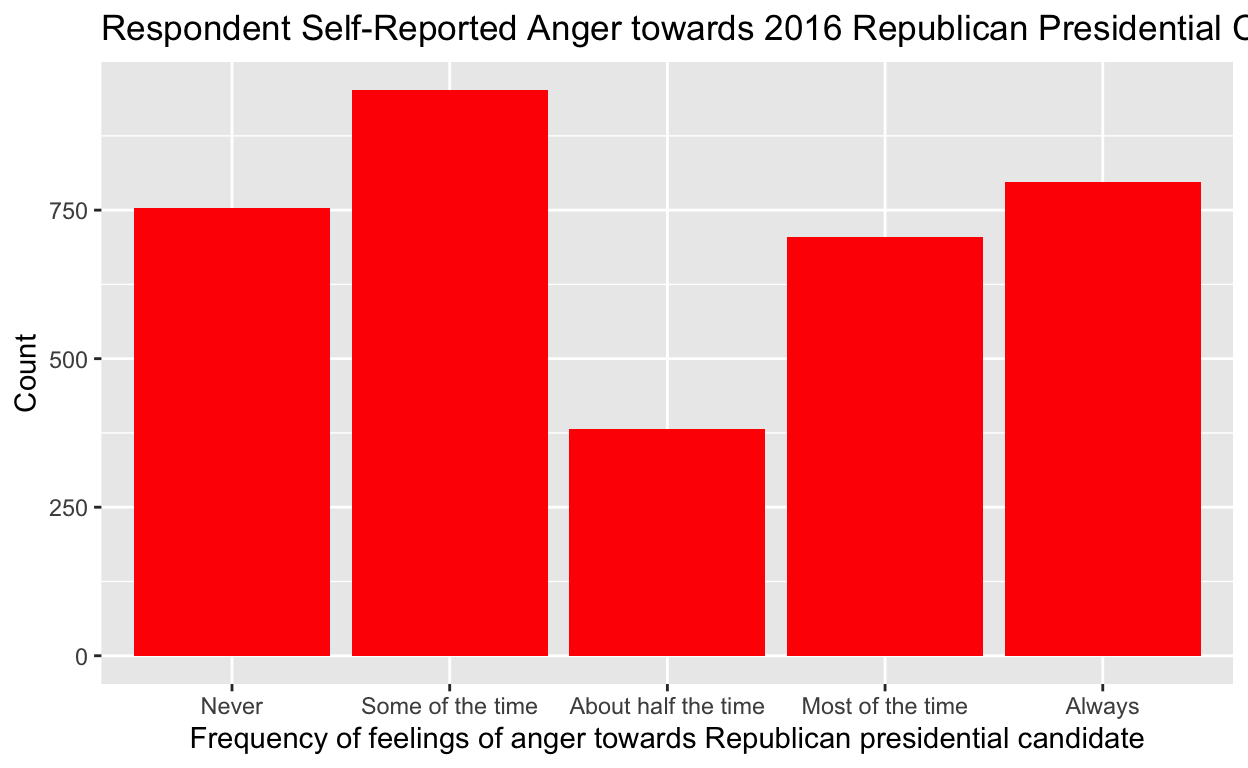
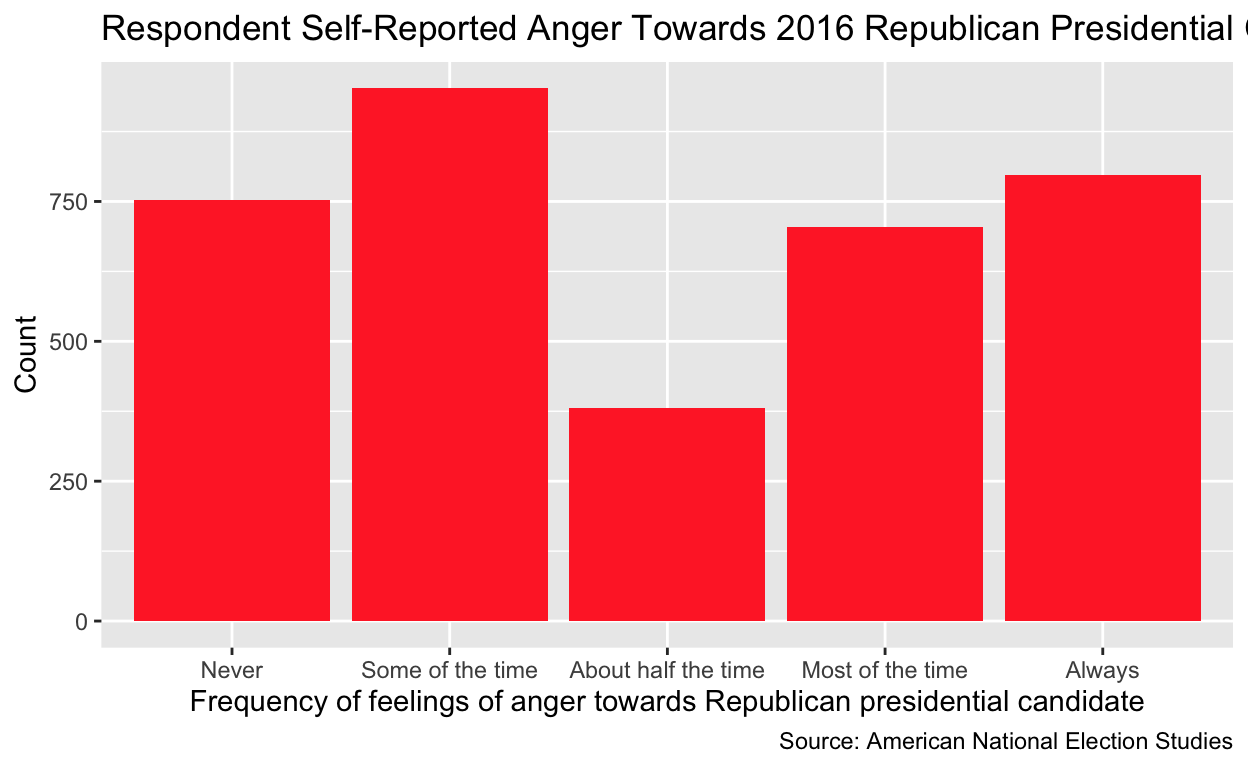
final edits

diff --git a/index.html b/index.html
@@ -1524,13 +1524,16 @@ code span.wa { color: #5e5e5e; font-style: italic; } /* Warning */
 <h2 id="loading-data-data-visualization">Loading data + data visualization</h2>
 <div class="layout-chunk" data-layout="l-body">
 <div class="sourceCode">
-<pre class="sourceCode r"><code class="sourceCode r"><span><span class='kw'><a href='https://rdrr.io/r/base/library.html'>library</a></span><span class='op'>(</span><span class='va'><a href='https://tidyverse.tidyverse.org'>tidyverse</a></span><span class='op'>)</span></span>
+<pre class="sourceCode r"><code class="sourceCode r"><span><span class='co'># Load data</span></span>
+<span><span class='kw'><a href='https://rdrr.io/r/base/library.html'>library</a></span><span class='op'>(</span><span class='va'><a href='https://tidyverse.tidyverse.org'>tidyverse</a></span><span class='op'>)</span></span>
 <span><span class='kw'><a href='https://rdrr.io/r/base/library.html'>library</a></span><span class='op'>(</span><span class='va'><a href='https://readr.tidyverse.org'>readr</a></span><span class='op'>)</span></span>
 <span><span class='va'>anes_2016</span> <span class='op'>&lt;-</span> <span class='fu'><a href='https://readr.tidyverse.org/reference/read_delim.html'>read_csv</a></span><span class='op'>(</span><span class='st'>"~/Downloads/anes-2016.csv"</span><span class='op'>)</span></span>
 <span></span>
+<span><span class='co'># Select relevant variables</span></span>
 <span><span class='va'>anes_subset</span> <span class='op'>&lt;-</span> <span class='va'>anes_2016</span> <span class='op'>|&gt;</span></span>
 <span>  <span class='fu'><a href='https://dplyr.tidyverse.org/reference/select.html'>select</a></span><span class='op'>(</span><span class='va'>V161116</span>, <span class='va'>V161121</span>, <span class='va'>V161495</span><span class='op'>)</span></span>
 <span></span>
+<span><span class='co'># Rename variables </span></span>
 <span><span class='va'>anes_subset</span> <span class='op'>&lt;-</span> <span class='va'>anes_subset</span> <span class='op'>|&gt;</span></span>
 <span>  <span class='fu'><a href='https://dplyr.tidyverse.org/reference/rename.html'>rename</a></span><span class='op'>(</span>Dem_Anger <span class='op'>=</span> <span class='va'>V161116</span>,</span>
 <span>         Rep_Anger <span class='op'>=</span> <span class='va'>V161121</span>,</span>
@@ -1548,29 +1551,34 @@ code span.wa { color: #5e5e5e; font-style: italic; } /* Warning */
 <span>                                     <span class='va'>Rep_Anger</span> <span class='op'>==</span> <span class='fl'>4</span> <span class='op'>~</span> <span class='st'>"Most of the time"</span>,</span>
 <span>                                     <span class='va'>Rep_Anger</span> <span class='op'>==</span> <span class='fl'>5</span> <span class='op'>~</span> <span class='st'>"Always"</span><span class='op'>)</span> <span class='op'>)</span></span>
 <span></span>
+<span><span class='co'># Turn variables into factors </span></span>
 <span><span class='va'>anes_subset</span> <span class='op'>&lt;-</span> <span class='va'>anes_subset</span> <span class='op'>|&gt;</span></span>
 <span>  <span class='fu'>dplyr</span><span class='fu'>::</span><span class='fu'><a href='https://dplyr.tidyverse.org/reference/mutate.html'>mutate</a></span><span class='op'>(</span>Dem_Anger_Value <span class='op'>=</span> <span class='fu'><a href='https://rdrr.io/r/base/factor.html'>factor</a></span><span class='op'>(</span><span class='va'>Dem_Anger_Value</span>, </span>
 <span>                                    levels <span class='op'>=</span> <span class='fu'><a href='https://rdrr.io/r/base/c.html'>c</a></span><span class='op'>(</span><span class='st'>"Never"</span>, <span class='st'>"Some of the time"</span>, <span class='st'>"About half the time"</span>,</span>
 <span>                                               <span class='st'>"Most of the time"</span>, <span class='st'>"Always"</span><span class='op'>)</span><span class='op'>)</span><span class='op'>)</span> <span class='op'>|&gt;</span></span>
 <span>   <span class='fu'>dplyr</span><span class='fu'>::</span><span class='fu'><a href='https://dplyr.tidyverse.org/reference/mutate.html'>mutate</a></span><span class='op'>(</span>Rep_Anger_Value <span class='op'>=</span> <span class='fu'><a href='https://rdrr.io/r/base/factor.html'>factor</a></span><span class='op'>(</span><span class='va'>Rep_Anger_Value</span>, </span>
 <span>                                    levels <span class='op'>=</span> <span class='fu'><a href='https://rdrr.io/r/base/c.html'>c</a></span><span class='op'>(</span><span class='st'>"Never"</span>, <span class='st'>"Some of the time"</span>, <span class='st'>"About half the time"</span>,</span>
-<span>                                               <span class='st'>"Most of the time"</span>, <span class='st'>"Always"</span><span class='op'>)</span><span class='op'>)</span><span class='op'>)</span> </span>
+<span>                                              <span class='st'>"Most of the time"</span>, <span class='st'>"Always"</span><span class='op'>)</span><span class='op'>)</span><span class='op'>)</span> </span>
+<span><span class='co'># Barplot: anger towards Democrats </span></span>
 <span><span class='va'>dem_anger_plot</span> <span class='op'>&lt;-</span> <span class='va'>anes_subset</span> <span class='op'>|&gt;</span></span>
 <span>  <span class='fu'><a href='https://tidyr.tidyverse.org/reference/drop_na.html'>drop_na</a></span><span class='op'>(</span><span class='op'>)</span> <span class='op'>|&gt;</span></span>
-<span>  <span class='fu'><a href='https://ggplot2.tidyverse.org/reference/ggplot.html'>ggplot</a></span><span class='op'>(</span>mapping <span class='op'>=</span> <span class='fu'><a href='https://ggplot2.tidyverse.org/reference/aes.html'>aes</a></span><span class='op'>(</span>x <span class='op'>=</span> <span class='va'>Dem_Anger_Value</span><span class='op'>)</span><span class='op'>)</span> <span class='op'>+</span> <span class='fu'><a href='https://ggplot2.tidyverse.org/reference/geom_bar.html'>geom_bar</a></span><span class='op'>(</span>stat <span class='op'>=</span> <span class='st'>"count"</span>, fill <span class='op'>=</span> <span class='st'>"blue"</span><span class='op'>)</span> <span class='op'>+</span> </span>
-<span>  <span class='fu'><a href='https://ggplot2.tidyverse.org/reference/labs.html'>labs</a></span><span class='op'>(</span>title <span class='op'>=</span> <span class='st'>"Respondent Self-Reported Anger towards 2016 Democratic Presidential Candidate"</span>,</span>
+<span>  <span class='fu'><a href='https://ggplot2.tidyverse.org/reference/ggplot.html'>ggplot</a></span><span class='op'>(</span>mapping <span class='op'>=</span> <span class='fu'><a href='https://ggplot2.tidyverse.org/reference/aes.html'>aes</a></span><span class='op'>(</span>x <span class='op'>=</span> <span class='va'>Dem_Anger_Value</span><span class='op'>)</span><span class='op'>)</span> <span class='op'>+</span> <span class='fu'><a href='https://ggplot2.tidyverse.org/reference/geom_bar.html'>geom_bar</a></span><span class='op'>(</span>stat <span class='op'>=</span> <span class='st'>"count"</span>, fill <span class='op'>=</span> <span class='st'>"dodgerblue3"</span><span class='op'>)</span> <span class='op'>+</span> </span>
+<span>  <span class='fu'><a href='https://ggplot2.tidyverse.org/reference/labs.html'>labs</a></span><span class='op'>(</span>title <span class='op'>=</span> <span class='st'>"Respondent Self-Reported Anger Towards 2016 Democratic Presidential Candidate"</span>,</span>
 <span>       x <span class='op'>=</span> <span class='st'>"Frequency of feelings of anger towards Democratic presidential candidate"</span>,</span>
-<span>       y <span class='op'>=</span> <span class='st'>"Count"</span><span class='op'>)</span> </span>
+<span>       y <span class='op'>=</span> <span class='st'>"Count"</span>,</span>
+<span>       caption <span class='op'>=</span> <span class='st'>"Source: American National Election Studies"</span><span class='op'>)</span> </span>
 <span><span class='va'>dem_anger_plot</span></span></code></pre>
 </div>
 <img src="index_files/figure-html5/unnamed-chunk-1-1.png" width="624" />
 <div class="sourceCode">
-<pre class="sourceCode r"><code class="sourceCode r"><span><span class='va'>rep_anger_plot</span> <span class='op'>&lt;-</span> <span class='va'>anes_subset</span> <span class='op'>|&gt;</span></span>
+<pre class="sourceCode r"><code class="sourceCode r"><span><span class='co'># Barplot: anger towards Republicans  </span></span>
+<span><span class='va'>rep_anger_plot</span> <span class='op'>&lt;-</span> <span class='va'>anes_subset</span> <span class='op'>|&gt;</span></span>
 <span>  <span class='fu'><a href='https://tidyr.tidyverse.org/reference/drop_na.html'>drop_na</a></span><span class='op'>(</span><span class='op'>)</span> <span class='op'>|&gt;</span></span>
-<span>  <span class='fu'><a href='https://ggplot2.tidyverse.org/reference/ggplot.html'>ggplot</a></span><span class='op'>(</span>mapping <span class='op'>=</span> <span class='fu'><a href='https://ggplot2.tidyverse.org/reference/aes.html'>aes</a></span><span class='op'>(</span>x <span class='op'>=</span> <span class='va'>Rep_Anger_Value</span><span class='op'>)</span><span class='op'>)</span> <span class='op'>+</span> <span class='fu'><a href='https://ggplot2.tidyverse.org/reference/geom_bar.html'>geom_bar</a></span><span class='op'>(</span>stat <span class='op'>=</span> <span class='st'>"count"</span>, fill <span class='op'>=</span> <span class='st'>"red"</span><span class='op'>)</span> <span class='op'>+</span></span>
-<span>  <span class='fu'><a href='https://ggplot2.tidyverse.org/reference/labs.html'>labs</a></span><span class='op'>(</span>title <span class='op'>=</span> <span class='st'>"Respondent Self-Reported Anger towards 2016 Republican Presidential Candidate"</span>,</span>
+<span>  <span class='fu'><a href='https://ggplot2.tidyverse.org/reference/ggplot.html'>ggplot</a></span><span class='op'>(</span>mapping <span class='op'>=</span> <span class='fu'><a href='https://ggplot2.tidyverse.org/reference/aes.html'>aes</a></span><span class='op'>(</span>x <span class='op'>=</span> <span class='va'>Rep_Anger_Value</span><span class='op'>)</span><span class='op'>)</span> <span class='op'>+</span> <span class='fu'><a href='https://ggplot2.tidyverse.org/reference/geom_bar.html'>geom_bar</a></span><span class='op'>(</span>stat <span class='op'>=</span> <span class='st'>"count"</span>, fill <span class='op'>=</span> <span class='st'>"firebrick1"</span><span class='op'>)</span> <span class='op'>+</span></span>
+<span>  <span class='fu'><a href='https://ggplot2.tidyverse.org/reference/labs.html'>labs</a></span><span class='op'>(</span>title <span class='op'>=</span> <span class='st'>"Respondent Self-Reported Anger Towards 2016 Republican Presidential Candidate"</span>,</span>
 <span>       x <span class='op'>=</span> <span class='st'>"Frequency of feelings of anger towards Republican presidential candidate"</span>,</span>
-<span>       y <span class='op'>=</span> <span class='st'>"Count"</span><span class='op'>)</span></span>
+<span>       y <span class='op'>=</span> <span class='st'>"Count"</span>,</span>
+<span>       caption <span class='op'>=</span> <span class='st'>"Source: American National Election Studies"</span><span class='op'>)</span></span>
 <span><span class='va'>rep_anger_plot</span></span></code></pre>
 </div>
 <p><img src="index_files/figure-html5/unnamed-chunk-1-2.png" width="624" /></p>
